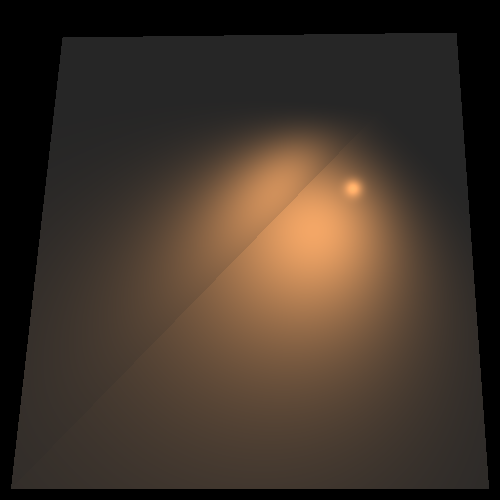
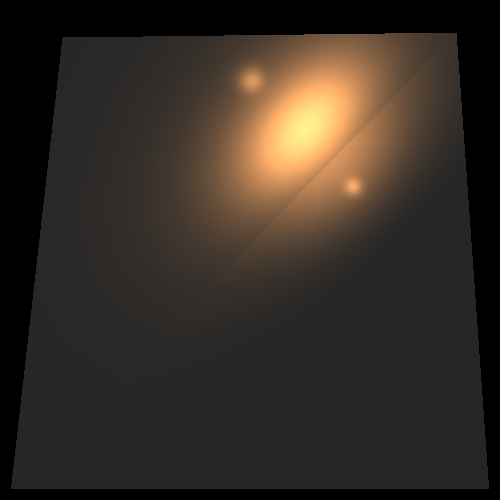
snowman and tree pngs

diff --git a/unitTests/renderer/LightsTests.java b/unitTests/renderer/LightsTests.java
@@ -6,6 +6,9 @@ import lighting.*;
 import geometries.*;
 import primitives.*;
 import renderer.scene.Scene;
+
+import java.util.Random;
+
 import static java.awt.Color.*;
 
 /**
@@ -253,5 +256,166 @@ public class LightsTests {
 				.setRayTracer(new RayTracerBasic(scene3)) //
 				.renderImage() ; //
 		camera3.writeToImage();//
+	}
+
+
+
+	/**
+	 * Produce a picture of snow man
+	 */
+	@Test
+	public void snowMan() {
+		Sphere sphere1 = (Sphere) new Sphere(new Point(0,-90,-500), 60)
+				.setMaterial(new Material().setKd(0.8).setKs(0.2).setKt(0.2).setnShininess(30));
+		sphere1.setEmission(new Color(DARK_GRAY));
+		Sphere sphere2 = (Sphere) new Sphere(new Point(0,0,-500), 50)
+				.setMaterial(new Material().setKd(0.8).setKs(0.2).setKt(0.2).setnShininess(30));
+		sphere2.setEmission(new Color(DARK_GRAY));
+		Sphere sphere3 = new Sphere(new Point(0,70,-500), 40);
+		sphere3.setEmission(new Color(DARK_GRAY))
+				.setMaterial(new Material().setKd(0.8).setKs(0.2).setKt(0.2).setnShininess(30));
+		Sphere sphere4 = new Sphere(new Point(-12,80,-463), 3);
+		sphere4.setEmission(new Color(0,100,0));
+		Sphere sphere5 = new Sphere(new Point(12,80,-463), 3);
+		sphere5.setEmission(new Color(0,100,0));
+		Sphere sphere6 = (Sphere) new Sphere(new Point(0,0,-450), 4).setEmission(new Color(BLACK));
+		Sphere sphere7 = (Sphere) new Sphere(new Point(0,12,-452), 4).setEmission(new Color(BLACK));
+		Sphere sphere8 = (Sphere) new Sphere(new Point(0,-12,-452), 4).setEmission(new Color(BLACK));
+		Triangle triangle1 = (Triangle) new Triangle(
+				new Point(-3,70,-459),
+				new Point(3,70,-459),
+				new Point(0,60,-440)
+		).setEmission(new Color(238,125,0));
+		Cylinder cylinder1 = (Cylinder) new Cylinder(new Ray(new Point(35,9,-500),new Vector(1,0.7d,1)), 3, 40)
+				.setEmission(new Color(50,16,0));
+		Cylinder cylinder2 = (Cylinder) new Cylinder(new Ray(new Point(-35,9,-500),new Vector(-1,0.7d,-1)), 3, 40)
+				.setEmission(new Color(50,16,0));
+		Cylinder cylinder3 = (Cylinder) new Cylinder(new Ray(new Point(90,11,-500),new Vector(-1,0.7d,-1)), 3, 40)
+				.setEmission(new Color(50,16,0));
+		Cylinder cylinder4 = (Cylinder) new Cylinder(new Ray(new Point(-85,8,-500),new Vector(1,0.7d,1)), 3, 40)
+				.setEmission(new Color(50,16,0));
+
+		Triangle polygon1 = (Triangle) new Triangle(
+				new Point(-200,-200,-560),
+				new Point(200,-200,-560),
+				new Point(200,200,-560)
+		).setEmission(new Color(DARK_GRAY)).setMaterial(new Material().setKs(0.8).setnShininess(60))//
+				;
+
+		Triangle polygon2 = (Triangle) new Triangle(
+				new Point(-200,-200,-560),
+				new Point(-200,200,-560),
+				new Point(200,200,-560)
+		).setEmission(new Color(DARK_GRAY)).setMaterial(new Material().setKs(0.8).setnShininess(60))//
+				;
+
+
+		Polygon pl1 = (Polygon) new Polygon(
+				new Point(-30,-65,-440),
+				new Point(30,-65,-440),
+				new Point(30,-60,-440),
+				new Point(-30,-60,-440))
+				.setEmission(new Color(BLUE));
+
+		Polygon pl2 = (Polygon) new Polygon(
+				new Point(-30,-105,-440),
+				new Point(30,-105,-440),
+				new Point(30,-100,-440),
+				new Point(-30,-100,-440))
+				.setEmission(new Color(BLUE));
+
+		Triangle tr1 = (Triangle) new Triangle(
+				new Point(0,-68,-440),
+				new Point(-15,-90,-440),
+				new Point(15,-90,-440)
+		).setEmission(new Color(BLUE))
+				.setMaterial(new Material().setKs(0.8).setnShininess(60));
+
+		Triangle tr2 = (Triangle) new Triangle(
+				new Point(0,-97,-440),
+				new Point(-15,-75,-440),
+				new Point(15,-75,-440)
+		).setEmission(new Color(BLUE))
+				.setMaterial(new Material().setKs(0.8).setnShininess(60));
+		;
+
+
+
+		scene2._geometries.add(sphere1, sphere2, sphere3, sphere4, sphere5, triangle1, cylinder1, cylinder2, cylinder3,
+				cylinder4, polygon1, polygon2, sphere6, sphere7, sphere8,
+				pl1, pl2, tr1, tr2
+		);
+		//	scene2.lights.add( //
+		//			new SpotLight(new Color(WHITE), new Point(0, 100, -450), new Vector(0, 0, -1)) //
+		//					.setKl(4E-4).setKq(2E-5));
+
+
+
+		scene2.lights.add( //
+				new SpotLight(new Color(WHITE), new Point(0, -85, -380), new Vector(0, 0, -2)) //
+						.setKl(0.0004).setKq(0.0000006));
+		scene2.lights.add( //
+				new SpotLight(new Color(LIGHT_GRAY), new Point(-200, 0, 0), new Vector(1, 1, -2)) //
+						.setKl(0.0004).setKq(0.0000006));
+		scene2.lights.add( //
+				new PointLight(new Color(GRAY), new Point(-50, 0, 0)));
+		scene2.lights.add( //
+				new PointLight(new Color(GRAY), new Point(50, 0, 0)));
+
+		scene2._background = new Color(89,108,143);
+		ImageWriter imageWriter = new ImageWriter("snowMan", 500, 500);
+		camera2.setImageWriter(imageWriter) //
+				.setRayTracer(new RayTracerBasic(scene2)) //
+				.renderImage() ; //
+		camera2.writeToImage();
+	}
+
+	/**
+	 * Produce a picture of snow man
+	 */
+	@Test
+	public void garden() {
+
+		Cylinder cylinder1 = (Cylinder) new Cylinder(new Ray(new Point(0,-100,-50), new Vector(0,1,0)), 10, 100)
+				.setEmission(new Color(50,16,10))
+						.setMaterial(new Material().setKd(0.9).setKs(0.1));
+
+		Polygon polygon = (Polygon) new Polygon(
+				new Point(-110,-110, -50),
+				new Point(110,-110, -50),
+				new Point(110,110, -50),
+				new Point(-110,110, -50)
+		).setEmission(new Color(186, 255, 255))
+				.setMaterial(new Material().setKd(0.9).setKs(0.1));
+		scene2._geometries.add(cylinder1, polygon);
+		for(int i = 0; i<200; i++){
+			Random rand = new Random();
+			Point p1 = new Point(rand.nextInt(100) - 50, rand.nextInt(100) - 15 , 0 );
+			scene2._geometries.add(new Sphere(p1, rand.nextInt(20)+1).setEmission(new Color(GREEN))
+					.setMaterial(new Material().setKs(0.001).setKd(0.9)));
+		}
+
+		for(int i = 0; i<50; i++){
+			Random rand = new Random();
+			Point p1 = new Point(rand.nextInt(90) - 50, rand.nextInt(90) - 15 , 20 );
+			scene2._geometries.add(new Sphere(p1, 2).setEmission(new Color(RED)));
+		}
+		scene2.lights.add( //
+				new SpotLight(new Color(WHITE), new Point(0, 500, 700), new Vector(0, -400, -1)) //
+						.setKl(0.0004).setKq(0.0000006));
+/*
+		scene2.lights.add( //
+				new SpotLight(new Color(WHITE), new Point(-200, 0, 0), new Vector(1, 1, -2)) //
+						.setKl(0.0004).setKq(0.0000006));
+		scene2.lights.add( //
+				new PointLight(new Color(WHITE), new Point(0, 0, 10000)));
+						*/
+
+		scene2._background = new Color(89,108,143);
+		ImageWriter imageWriter = new ImageWriter("garden", 500, 500);
+		camera2.setImageWriter(imageWriter) //
+				.setRayTracer(new RayTracerBasic(scene2)) //
+				.renderImage() ; //
+		camera2.writeToImage();
 	}
 }
